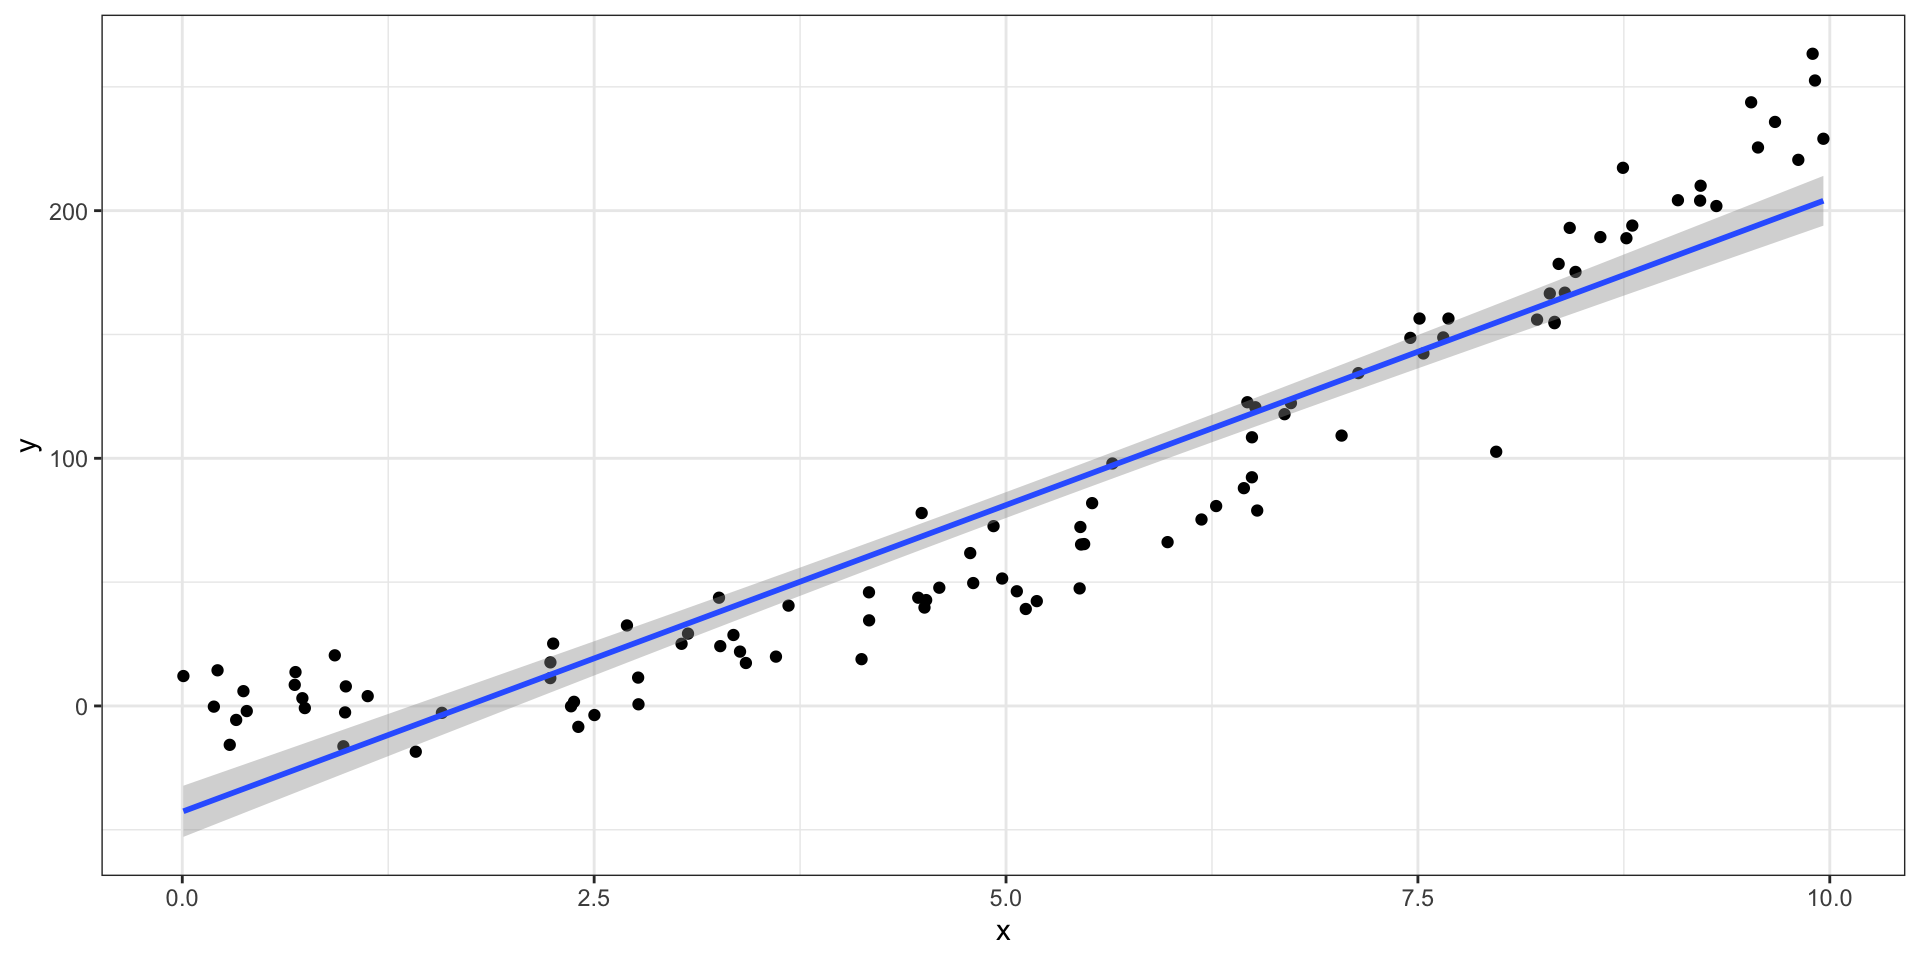
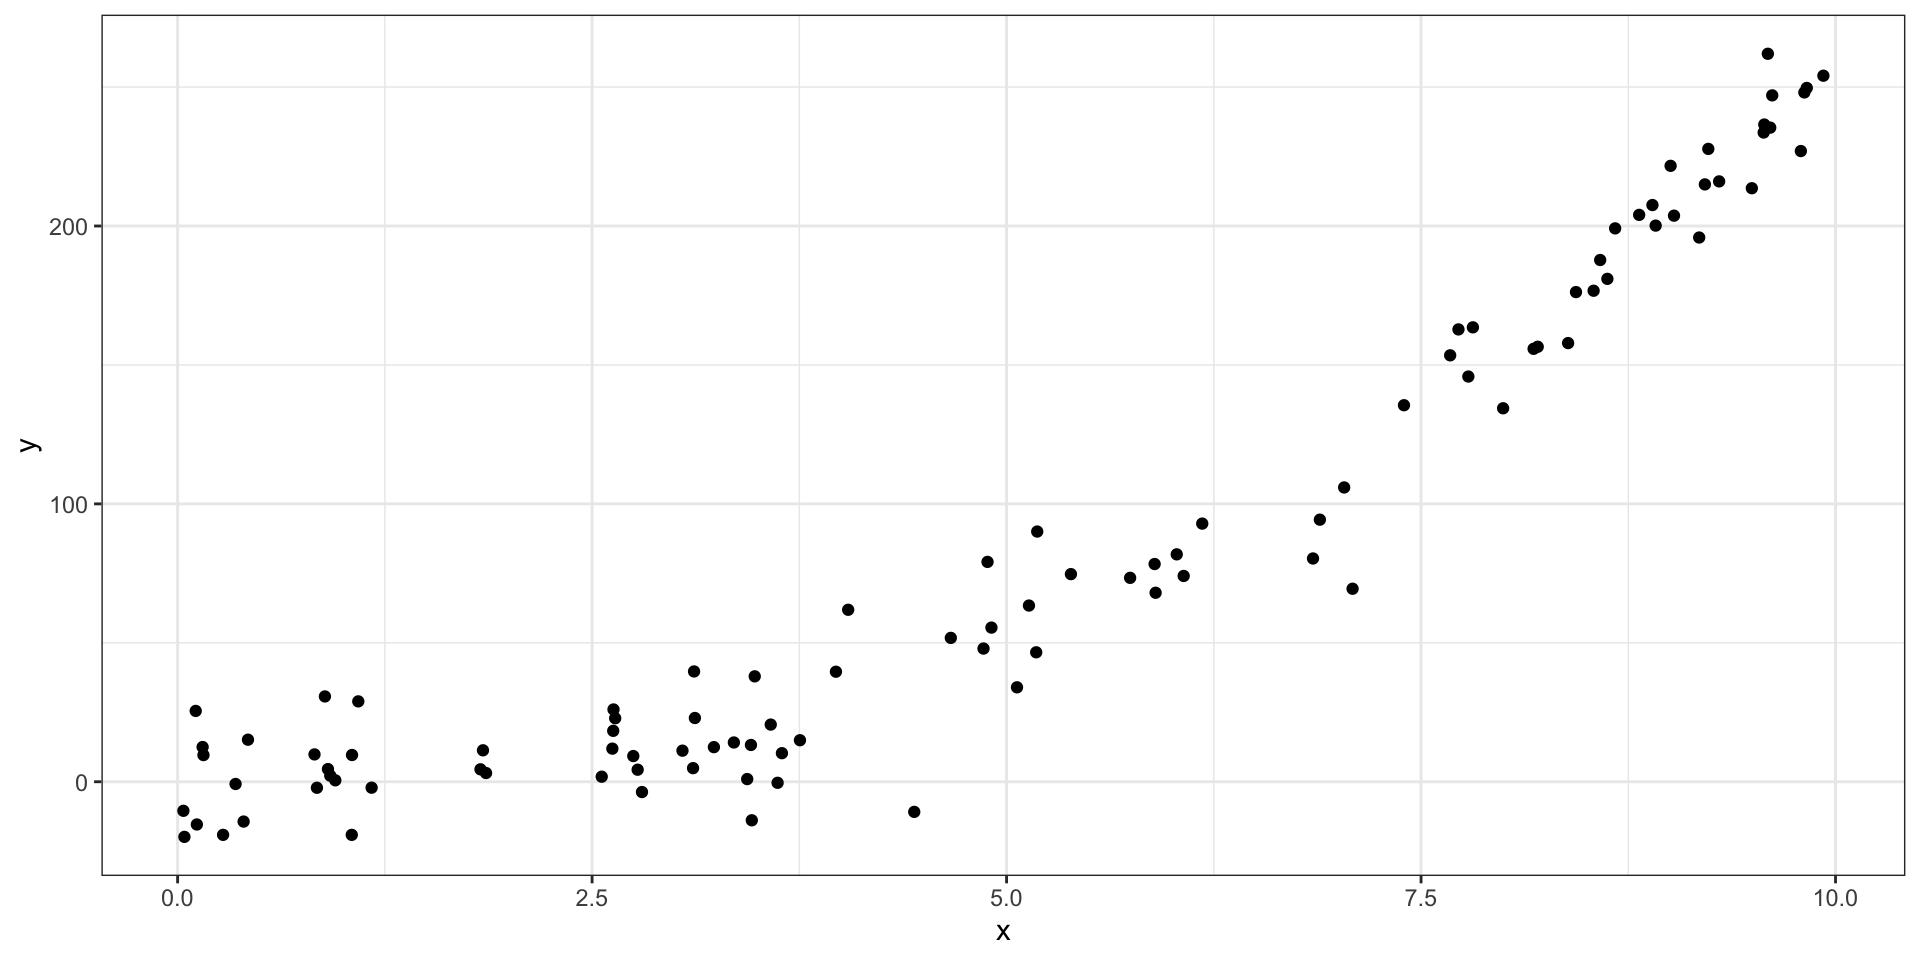
Edits on the lecture

diff --git a/docs/lectures/6aS25.html b/docs/lectures/6aS25.html
@@ -354,7 +354,7 @@ Y = f(\boldsymbol X) + \varepsilon
 <section id="example-1" class="slide level2">
 <h2>Example</h2>
 <div class="panel-tabset">
-<ul id="tabset-2" class="panel-tabset-tabby"><li><a data-tabby-default="" href="#tabset-2-1">Data</a></li><li><a href="#tabset-2-2">KNN</a></li><li><a href="#tabset-2-3">SVM</a></li></ul>
+<ul id="tabset-2" class="panel-tabset-tabby"><li><a data-tabby-default="" href="#tabset-2-1">Data</a></li><li><a href="#tabset-2-2">KNN</a></li><li><a href="#tabset-2-3">SVM</a></li><li><a href="#tabset-2-4">NN</a></li></ul>
 <div class="tab-content">
 <div id="tabset-2-1">
 <div class="cell">
@@ -388,30 +388,17 @@ Y = f(\boldsymbol X) + \varepsilon
 #&gt;   virginica       0          2        48</code></pre>
 </div>
 </div>
-<!-- ## NN -->
-<!-- ```{r} -->
-<!-- #| echo: false -->
-<!-- library(neuralnet) -->
-<!-- data(iris) -->
-<!-- iris$setosa <- iris$Species == "setosa" -->
-<!-- iris$virginica <- iris$Species == "virginica" -->
-<!-- iris$versicolor <- iris$Species == "versicolor" -->
-<!-- iris.train.idx <- sample(x = nrow(iris), size = nrow(iris) * 0.5) -->
-<!-- iris.train <- iris[iris.train.idx, ] -->
-<!-- iris.valid <- iris[-iris.train.idx, ] -->
-<!-- library(neuralnet) -->
-<!-- iris.net <- neuralnet( -->
-<!--   setosa + versicolor + virginica ~ -->
-<!--     Sepal.Length + Sepal.Width + Petal.Length + Petal.Width, -->
-<!--   data = iris.train, hidden = c(10, 10), rep = 5, err.fct = "ce", -->
-<!--   linear.output = F, lifesign = "minimal", stepmax = 1000000, -->
-<!--   threshold = 0.001 -->
-<!-- ) -->
-<!-- iris.prediction <- neuralnet::compute(iris.net, iris.valid[-5:-8]) -->
-<!-- idx <- apply(iris.prediction$net.result, 1, which.max) -->
-<!-- predicted <- c("setosa", "versicolor", "virginica")[idx] -->
-<!-- table(predicted, iris.valid$Species) -->
-<!-- ``` -->
+</div>
+<div id="tabset-2-4">
+<div class="cell">
+<div class="cell-output cell-output-stdout">
+<pre><code>#&gt;             
+#&gt; predicted    setosa versicolor virginica
+#&gt;   setosa         25          0         0
+#&gt;   versicolor      0         25         3
+#&gt;   virginica       0          2        20</code></pre>
+</div>
+</div>
 </div>
 </div>
 </div>
@@ -468,7 +455,7 @@ ER = \frac{1}{n}\sum^n_{i=1}I(y_i \ne \hat y_i)
 <section id="bias-variance-tradeoff" class="slide level2">
 <h2>Bias-Variance Tradeoff</h2>
 
-<img data-src="6aS25_files/figure-revealjs/unnamed-chunk-10-1.png" width="960" class="r-stretch"></section>
+<img data-src="6aS25_files/figure-revealjs/unnamed-chunk-11-1.png" width="960" class="r-stretch"></section>
 <section id="bias-variance-tradeoff-1" class="slide level2">
 <h2>Bias-Variance Tradeoff</h2>
 <p><span class="math display">\[
@@ -478,40 +465,40 @@ E(MSE) = E\left\{y-\hat f(x)\right\}^2 = Var\left\{\hat f(x)\right\} + Bias\left
 <section id="example-2" class="slide level2">
 <h2>Example</h2>
 
-<img data-src="6aS25_files/figure-revealjs/unnamed-chunk-11-1.png" width="960" class="r-stretch"></section>
+<img data-src="6aS25_files/figure-revealjs/unnamed-chunk-12-1.png" width="960" class="r-stretch"></section>
 <section id="using-a-line" class="slide level2">
 <h2>Using a Line</h2>
 
-<img data-src="6aS25_files/figure-revealjs/unnamed-chunk-12-1.png" width="960" class="r-stretch"></section>
+<img data-src="6aS25_files/figure-revealjs/unnamed-chunk-13-1.png" width="960" class="r-stretch"></section>
 <section id="using-a-highly-flexible-model" class="slide level2">
 <h2>Using a Highly Flexible Model</h2>
 
-<img data-src="6aS25_files/figure-revealjs/unnamed-chunk-13-1.png" width="960" class="r-stretch"></section>
+<img data-src="6aS25_files/figure-revealjs/unnamed-chunk-14-1.png" width="960" class="r-stretch"></section>
 <section id="semi-flexible" class="slide level2">
 <h2>Semi-Flexible</h2>
 
-<img data-src="6aS25_files/figure-revealjs/unnamed-chunk-14-1.png" width="960" class="r-stretch"></section>
+<img data-src="6aS25_files/figure-revealjs/unnamed-chunk-15-1.png" width="960" class="r-stretch"></section>
 <section id="all" class="slide level2">
 <h2>All</h2>
 <div class="cell">
 <details class="code-fold">
 <summary>Code</summary>
-<div class="sourceCode cell-code" id="cb3"><pre class="sourceCode numberSource r number-lines code-with-copy"><code class="sourceCode r"><span id="cb3-1"><a></a>x <span class="ot">&lt;-</span> <span class="fu">runif</span>(<span class="dv">100</span>, <span class="dv">0</span>, <span class="dv">10</span>)</span>
-<span id="cb3-2"><a></a>y <span class="ot">&lt;-</span> <span class="dv">3</span> <span class="sc">*</span> x<span class="sc">^</span><span class="dv">2</span> <span class="sc">-</span> <span class="dv">5</span><span class="sc">*</span>x <span class="sc">+</span> <span class="dv">3</span> <span class="sc">+</span> <span class="fu">rnorm</span>(<span class="dv">100</span>, <span class="at">sd =</span> <span class="dv">15</span>)</span>
-<span id="cb3-3"><a></a><span class="fu">data.frame</span>(x, y) <span class="sc">|&gt;</span></span>
-<span id="cb3-4"><a></a>  <span class="fu">ggplot</span>(<span class="fu">aes</span>(x, y)) <span class="sc">+</span></span>
-<span id="cb3-5"><a></a>  <span class="fu">geom_point</span>() <span class="sc">+</span></span>
-<span id="cb3-6"><a></a>  <span class="fu">stat_smooth</span>(<span class="at">method =</span> <span class="st">"lm"</span>, </span>
-<span id="cb3-7"><a></a>              <span class="at">color =</span> <span class="st">"skyblue4"</span>, <span class="at">fill =</span> <span class="st">"skyblue2"</span>) <span class="sc">+</span></span>
-<span id="cb3-8"><a></a>  <span class="fu">stat_smooth</span>(<span class="at">method =</span> <span class="st">"loess"</span>, <span class="at">span =</span> <span class="fl">0.075</span>, </span>
-<span id="cb3-9"><a></a>              <span class="at">color =</span> <span class="st">"springgreen4"</span>, <span class="at">fill =</span> <span class="st">"springgreen2"</span>) <span class="sc">+</span></span>
-<span id="cb3-10"><a></a>  <span class="fu">stat_smooth</span>(<span class="at">color =</span> <span class="st">"violetred"</span>, <span class="at">fill =</span> <span class="st">"violet"</span>) <span class="sc">+</span></span>
-<span id="cb3-11"><a></a>  <span class="fu">theme_bw</span>()</span></code><button title="Copy to Clipboard" class="code-copy-button"><i class="bi"></i></button></pre></div>
+<div class="sourceCode cell-code" id="cb4"><pre class="sourceCode numberSource r number-lines code-with-copy"><code class="sourceCode r"><span id="cb4-1"><a></a>x <span class="ot">&lt;-</span> <span class="fu">runif</span>(<span class="dv">100</span>, <span class="dv">0</span>, <span class="dv">10</span>)</span>
+<span id="cb4-2"><a></a>y <span class="ot">&lt;-</span> <span class="dv">3</span> <span class="sc">*</span> x<span class="sc">^</span><span class="dv">2</span> <span class="sc">-</span> <span class="dv">5</span><span class="sc">*</span>x <span class="sc">+</span> <span class="dv">3</span> <span class="sc">+</span> <span class="fu">rnorm</span>(<span class="dv">100</span>, <span class="at">sd =</span> <span class="dv">15</span>)</span>
+<span id="cb4-3"><a></a><span class="fu">data.frame</span>(x, y) <span class="sc">|&gt;</span></span>
+<span id="cb4-4"><a></a>  <span class="fu">ggplot</span>(<span class="fu">aes</span>(x, y)) <span class="sc">+</span></span>
+<span id="cb4-5"><a></a>  <span class="fu">geom_point</span>() <span class="sc">+</span></span>
+<span id="cb4-6"><a></a>  <span class="fu">stat_smooth</span>(<span class="at">method =</span> <span class="st">"lm"</span>, </span>
+<span id="cb4-7"><a></a>              <span class="at">color =</span> <span class="st">"skyblue4"</span>, <span class="at">fill =</span> <span class="st">"skyblue2"</span>) <span class="sc">+</span></span>
+<span id="cb4-8"><a></a>  <span class="fu">stat_smooth</span>(<span class="at">method =</span> <span class="st">"loess"</span>, <span class="at">span =</span> <span class="fl">0.075</span>, </span>
+<span id="cb4-9"><a></a>              <span class="at">color =</span> <span class="st">"springgreen4"</span>, <span class="at">fill =</span> <span class="st">"springgreen2"</span>) <span class="sc">+</span></span>
+<span id="cb4-10"><a></a>  <span class="fu">stat_smooth</span>(<span class="at">color =</span> <span class="st">"violetred"</span>, <span class="at">fill =</span> <span class="st">"violet"</span>) <span class="sc">+</span></span>
+<span id="cb4-11"><a></a>  <span class="fu">theme_bw</span>()</span></code><button title="Copy to Clipboard" class="code-copy-button"><i class="bi"></i></button></pre></div>
 </details>
 <div class="cell-output-display">
 <div>
 <figure>
-<p><img data-src="6aS25_files/figure-revealjs/unnamed-chunk-15-1.png" width="960"></p>
+<p><img data-src="6aS25_files/figure-revealjs/unnamed-chunk-16-1.png" width="960"></p>
 </figure>
 </div>
 </div>

diff --git a/docs/ec.html b/docs/ec.html
@@ -360,7 +360,7 @@ window.Quarto = {
 </a>
 </div>
 </div>
-<div class="quarto-post image-right" data-index="7" data-listing-file-modified-sort="1740605996491" data-listing-reading-time-sort="7" data-listing-word-count-sort="1311">
+<div class="quarto-post image-right" data-index="7" data-listing-file-modified-sort="1740606485944" data-listing-reading-time-sort="7" data-listing-word-count-sort="1263">
 <div class="thumbnail">
 <p><a href="./lectures/6aS25.html" class="no-external"></a></p><a href="./lectures/6aS25.html" class="no-external">
 <div class="listing-item-img-placeholder card-img-top" >&nbsp;</div>
